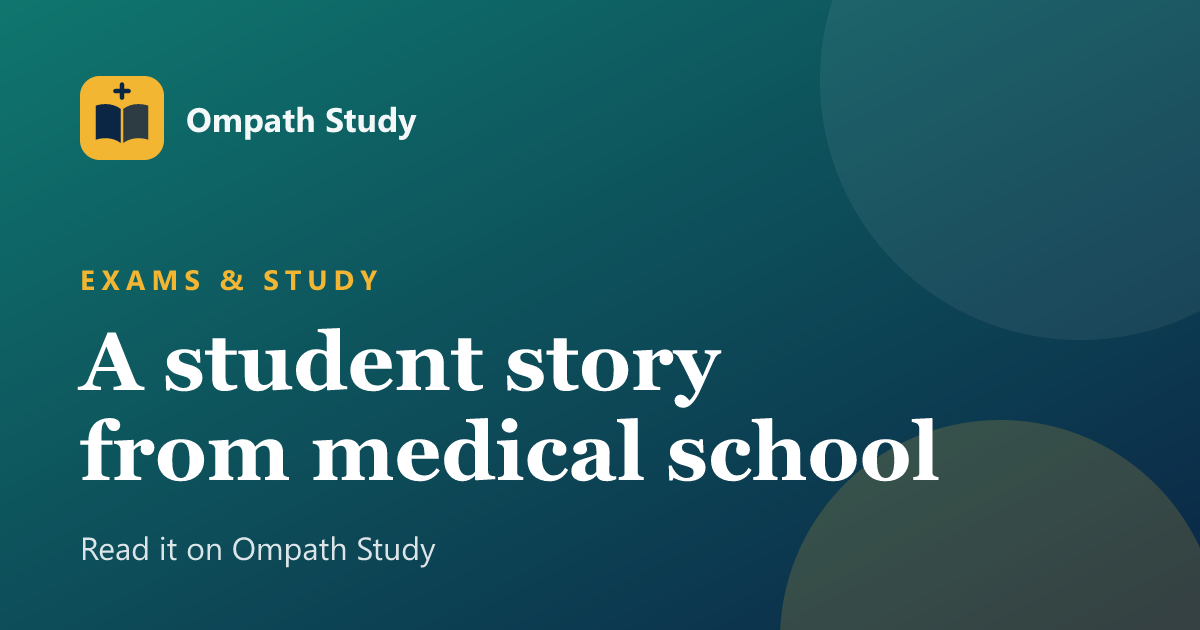
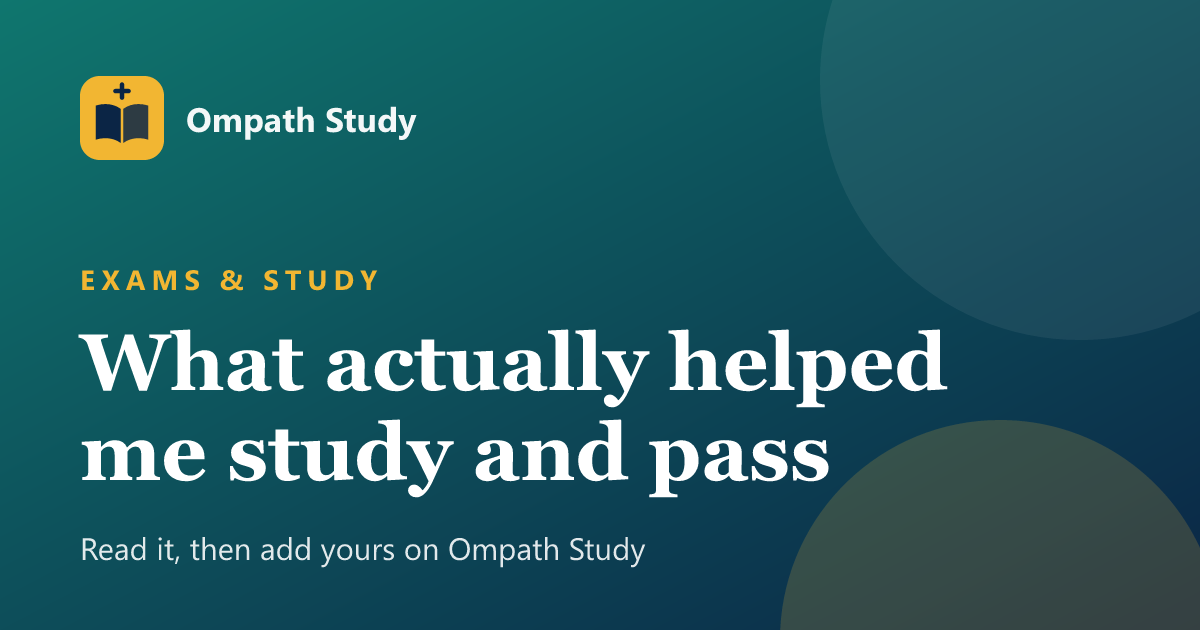
Faster site (lazy search, smarter service worker, update prompt), clearer AI typing box, motivating share text and thumbnails

Changed region(s): [[0.0617, 0.5127, 0.8017, 0.7841], [0.0617, 0.8444, 0.555, 0.9048]]

diff --git a/public/sw.js b/public/sw.js
@@ -1,119 +1,85 @@
-// OmpathStudy Service Worker - v8. Supabase reads are network-first so an
-// empty response captured during a database migration cannot blank the site.
-const CACHE_NAME = "ompath-v8";
-const API_CACHE = "ompath-api-v4";
+// OmpathStudy Service Worker - v9.
+//  - Pages: network-first, so a deploy is picked up at once; the cached copy is only for offline.
+//  - Built files in /assets/: cache-first. Their names contain a fingerprint of their content, so a cached file is never out of date,
+//    and a returning student gets the whole app from their phone instead of downloading it again.
+//  - Database reads: network-first, but if the network is slow (over 3 seconds) and there is a saved copy, the saved copy is shown at once.
+//    An empty answer is never saved, so a database migration cannot blank the site.
+const CACHE_NAME = "ompath-v9";
+const API_CACHE = "ompath-api-v5";
+const SLOW_MS = 3000;
 const STATIC_ASSETS = ["/", "/index.html", "/manifest.json"];
 
-// Install: cache shell
 self.addEventListener("install", (event) => {
-  event.waitUntil(
-    caches.open(CACHE_NAME).then((cache) => cache.addAll(STATIC_ASSETS))
-  );
+  event.waitUntil(caches.open(CACHE_NAME).then((cache) => cache.addAll(STATIC_ASSETS)));
   self.skipWaiting();
 });
 
-// Activate: clean old caches
 self.addEventListener("activate", (event) => {
   event.waitUntil(
-    caches.keys().then((keys) =>
-      Promise.all(
-        keys
-          .filter((k) => k !== CACHE_NAME && k !== API_CACHE)
-          .map((k) => caches.delete(k))
-      )
-    )
+    caches.keys().then((keys) => Promise.all(keys.filter((k) => k !== CACHE_NAME && k !== API_CACHE).map((k) => caches.delete(k))))
   );
   self.clients.claim();
 });
 
-// Fetch handler
+const keep = (cacheName, request, response) => { if (response && response.ok) { const copy = response.clone(); caches.open(cacheName).then((c) => c.put(request, copy)); } return response; };
+
 self.addEventListener("fetch", (event) => {
   const url = new URL(event.request.url);
-
   if (event.request.method !== "GET") return;
   if (url.pathname.startsWith("/~oauth")) return;
 
-  // Supabase REST API: prefer current database state, then fall back offline.
+  // Database reads
   if (url.hostname.includes("supabase") && url.pathname.includes("/rest/")) {
-    event.respondWith(
-      caches.open(API_CACHE).then(async (cache) => {
-        const cached = await cache.match(event.request);
-        try {
-          const response = await fetch(event.request);
-          if (response.ok) await cache.put(event.request, response.clone());
-          return response;
-        } catch {
-          return cached || new Response("[]", { headers: { "Content-Type": "application/json" } });
+    event.respondWith((async () => {
+      const cache = await caches.open(API_CACHE);
+      const cached = await cache.match(event.request);
+      const network = fetch(event.request).then(async (response) => {
+        if (response.ok) {
+          const text = await response.clone().text();
+          if (text && text !== "[]" && text !== "null") await cache.put(event.request, response.clone()); // never keep an empty answer
         }
-      })
-    );
+        return response;
+      });
+      if (!cached) return network.catch(() => new Response("[]", { headers: { "Content-Type": "application/json" } }));
+      const slow = new Promise((resolve) => setTimeout(() => resolve(cached.clone()), SLOW_MS));
+      return Promise.race([network, slow]).catch(() => cached);
+    })());
     return;
   }
+  if (url.hostname.includes("supabase")) return; // auth and functions go straight to the network
 
-  // Skip other supabase calls (auth, functions)
-  if (url.hostname.includes("supabase")) return;
-
-  // Navigation: network-first with offline fallback to cached index.html
+  // Pages
   if (event.request.mode === "navigate") {
     event.respondWith(
       fetch(event.request)
-        .then((response) => {
-          const clone = response.clone();
-          caches.open(CACHE_NAME).then((cache) => cache.put(event.request, clone));
-          return response;
-        })
-        .catch(() =>
-          caches.match(event.request).then((r) => r || caches.match("/"))
-        )
+        .then((response) => keep(CACHE_NAME, event.request, response))
+        .catch(() => caches.match(event.request).then((r) => r || caches.match("/")))
     );
     return;
   }
 
-  // JS/CSS chunks: network-first to avoid serving stale hashed bundles after deploy.
-  // Falls back to cache only when offline.
-  const isHashedBundle = url.pathname.startsWith("/assets/") || /\.(js|css)$/.test(url.pathname);
-  if (isHashedBundle) {
+  // Fingerprinted app files: cache-first
+  if (url.origin === self.location.origin && url.pathname.startsWith("/assets/")) {
     event.respondWith(
-      fetch(event.request)
-        .then((response) => {
-          if (response.ok) {
-            const clone = response.clone();
-            caches.open(CACHE_NAME).then((cache) => cache.put(event.request, clone));
-          }
-          return response;
-        })
-        .catch(() => caches.match(event.request).then((r) => r || new Response("", { status: 503 })))
+      caches.match(event.request).then((cached) => cached || fetch(event.request).then((response) => keep(CACHE_NAME, event.request, response)).catch(() => new Response("", { status: 503 })))
     );
     return;
   }
 
-  // Images / fonts: cache-first (safe to keep stale)
-  if (/\.(png|jpg|jpeg|svg|ico|woff2?|webp|gif)$/.test(url.pathname)) {
+  // Other scripts and styles: network-first
+  if (/\.(js|css)$/.test(url.pathname)) {
+    event.respondWith(fetch(event.request).then((response) => keep(CACHE_NAME, event.request, response)).catch(() => caches.match(event.request).then((r) => r || new Response("", { status: 503 }))));
+    return;
+  }
+
+  // Images and fonts: cache-first
+  if (/\.(png|jpg|jpeg|svg|ico|woff2?|webp|gif|avif)$/.test(url.pathname)) {
     event.respondWith(
-      caches.match(event.request).then((cached) => {
-        if (cached) return cached;
-        return fetch(event.request).then((response) => {
-          if (response.ok) {
-            const clone = response.clone();
-            caches.open(CACHE_NAME).then((cache) => cache.put(event.request, clone));
-          }
-          return response;
-        }).catch(() => new Response("", { status: 503 }));
-      })
+      caches.match(event.request).then((cached) => cached || fetch(event.request).then((response) => keep(CACHE_NAME, event.request, response)).catch(() => new Response("", { status: 503 })))
     );
     return;
   }
 
-  // Everything else: network-first with cache fallback
-  event.respondWith(
-    fetch(event.request)
-      .then((response) => {
-        if (response.ok) {
-          const clone = response.clone();
-          caches.open(CACHE_NAME).then((cache) => cache.put(event.request, clone));
-        }
-        return response;
-      })
-      .catch(() => caches.match(event.request))
-  );
+  // Everything else: network-first
+  event.respondWith(fetch(event.request).then((response) => keep(CACHE_NAME, event.request, response)).catch(() => caches.match(event.request)));
 });

diff --git a/src/components/ai/OmpathAIHost.tsx b/src/components/ai/OmpathAIHost.tsx
@@ -2,7 +2,7 @@ import { useCallback, useEffect, useMemo, useRef, useState } from "react";
 import { useLocation, useNavigate } from "react-router-dom";
 import { ArrowUp, Bookmark, BookOpen, Check, Copy, ExternalLink, History, Loader2, MessageSquarePlus, Search, Square, Mic, RefreshCw, Share2, Zap, ThumbsDown, ThumbsUp, Trash2, X } from "lucide-react";
 import { Sheet, SheetContent, SheetDescription, SheetTitle } from "@/components/ui/sheet";
-import { HitIcon } from "@/components/SearchPalette";
+import { HitIcon } from "@/components/HitIcon";
 import DriveFileViewer, { type DriveFile, type DriveKind } from "@/components/DriveFileViewer";
 import { SubscribeModal } from "@/components/SubscribeModal";
 import NotePreview from "@/components/ai/NotePreview";
@@ -428,8 +428,8 @@ export default function OmpathAIHost() {
                   ))}
                 </div>
               )}
-              <form onSubmit={(e) => { e.preventDefault(); void ask(q); }} className="flex items-end gap-2 rounded-2xl border border-border bg-card p-2 focus-within:ring-2 focus-within:ring-ring">
-                <textarea ref={inputRef} value={q} onChange={(e) => { setQ(e.target.value); e.target.style.height = "auto"; e.target.style.height = `${Math.min(e.target.scrollHeight, 144)}px`; }} onKeyDown={(e) => { if (e.key === "Enter" && !e.shiftKey) { e.preventDefault(); void ask(q); } }} rows={1} placeholder="e.g. I need notes on psychiatry" aria-label="Ask Ompath AI" className="max-h-36 min-h-[44px] flex-1 resize-none bg-transparent px-2 py-2.5 text-base outline-none placeholder:text-muted-foreground" />
+              <form onSubmit={(e) => { e.preventDefault(); void ask(q); }} className="flex items-end gap-1.5 rounded-2xl border border-border bg-card p-1.5 transition-shadow focus-within:border-primary/60 focus-within:shadow-[0_0_0_3px_hsl(var(--primary)/0.18)]">
+                <textarea ref={inputRef} value={q} onChange={(e) => { setQ(e.target.value); e.target.style.height = "auto"; e.target.style.height = `${Math.min(e.target.scrollHeight, 144)}px`; }} onKeyDown={(e) => { if (e.key === "Enter" && !e.shiftKey) { e.preventDefault(); void ask(q); } }} rows={1} placeholder="Ask Ompath AI…" aria-label="Ask Ompath AI" enterKeyHint="send" autoComplete="off" autoCorrect="on" className="block max-h-36 min-h-[44px] min-w-0 flex-1 resize-none overflow-y-auto bg-transparent px-2 py-[10px] text-base leading-6 outline-none placeholder:text-muted-foreground" />
                 {SpeechRec && !busy && <button type="button" onClick={listen} aria-label={listening ? "Listening" : "Speak your question"} className={`flex h-11 w-11 shrink-0 items-center justify-center rounded-xl ${listening ? "animate-pulse bg-destructive/15 text-destructive" : "text-muted-foreground hover:bg-muted"}`}><Mic className="h-5 w-5" /></button>}
                 {busy ? <button type="button" onClick={() => abort.current?.abort()} aria-label="Stop" className="flex h-11 w-11 shrink-0 items-center justify-center rounded-xl bg-muted"><Square className="h-4 w-4" /></button>
                   : <button type="submit" disabled={q.trim().length < 2} aria-label="Ask" className="flex h-11 w-11 shrink-0 items-center justify-center rounded-xl bg-primary text-primary-foreground disabled:opacity-40"><ArrowUp className="h-5 w-5" /></button>}

diff --git a/src/components/SearchPalette.tsx b/src/components/SearchPalette.tsx
@@ -6,9 +6,9 @@ import { useSiteSearch } from "@/hooks/useSiteSearch";
 import { groupSiteHits, type SiteHit } from "@/lib/siteSearch";
 import { logSearch } from "@/lib/search";
 import Highlight from "@/components/Highlight";
+import { HitIcon } from "@/components/HitIcon";
+import { OPEN_SEARCH_EVENT } from "@/lib/searchEvents";
 
-export const OPEN_SEARCH_EVENT = "ompath:open-search";
-export const openSearch = (initial = "") => window.dispatchEvent(new CustomEvent(OPEN_SEARCH_EVENT, { detail: initial }));
 
 const RECENT_KEY = "ompath_recent_searches";
 const readRecent = (): string[] => { try { const v = JSON.parse(localStorage.getItem(RECENT_KEY) ?? "[]"); return Array.isArray(v) ? v.slice(0, 6) : []; } catch { return []; } };
@@ -18,12 +18,6 @@ const SUGGESTED = [
   { label: "Course outlines", href: "/course-outlines", icon: ClipboardList },
   { label: "Year 1 library", href: "/library/year-1", icon: FolderOpen },
 ];
-
-export function HitIcon({ hit, className = "h-4 w-4" }: { hit: SiteHit; className?: string }) {
-  const Icon = hit.group === "Notes" ? BookOpen : hit.group === "Outline topics" ? ClipboardList : hit.group === "Pages" ? Layers : hit.group === "Stories" ? Newspaper : hit.group === "MCQs & flashcards" ? GraduationCap
-    : hit.kind === "ppt" ? Presentation : hit.kind === "video" ? Film : hit.kind === "img" ? ImageIcon : hit.kind === "pdf" || hit.kind === "doc" ? FileText : hit.group === "Units" ? FolderOpen : File;
-  return <Icon className={`${className} text-primary`} aria-hidden="true" />;
-}
 
 /** Ctrl/⌘ + K anywhere: live search over notes, library files, outline topics and pages. */
 export default function SearchPalette() {
@@ -44,6 +38,8 @@ export default function SearchPalette() {
       if ((e.ctrlKey || e.metaKey) && e.key.toLowerCase() === "k") { e.preventDefault(); setRecent(readRecent()); setOpen((o) => !o); }
     };
     const onOpen = (e: Event) => { setRecent(readRecent()); setQ(String((e as CustomEvent).detail ?? "")); setOpen(true); };
+    const w = window as unknown as { __ompathSearchPending?: string };
+    if (w.__ompathSearchPending !== undefined) { setRecent(readRecent()); setQ(w.__ompathSearchPending); setOpen(true); delete w.__ompathSearchPending; }
     window.addEventListener("keydown", onKey);
     window.addEventListener(OPEN_SEARCH_EVENT, onOpen);
     return () => { window.removeEventListener("keydown", onKey); window.removeEventListener(OPEN_SEARCH_EVENT, onOpen); };

diff --git a/src/components/UpdateNotifier.tsx b/src/components/UpdateNotifier.tsx
@@ -1,0 +1,42 @@
+import { useEffect, useState } from "react";
+import { RefreshCw } from "lucide-react";
+
+/** The script file the page is running on, from its own markup ("/assets/index-AbC123.js"). */
+const scriptOf = (html: string) => html.match(/<script[^>]+type="module"[^>]+src="([^"]*\/assets\/index-[^"]+\.js)"/)?.[1] ?? html.match(/src="([^"]*\/assets\/index-[^"]+\.js)"/)?.[1] ?? "";
+
+/**
+ * Students keep Ompath Study open (or installed) for days, and an old copy keeps running old code after a fix goes live.
+ * This quietly checks for a newer version when the student comes back to the tab, and offers a one-tap refresh.
+ * It never reloads on its own, so nothing a student is typing is lost.
+ */
+export default function UpdateNotifier() {
+  const [stale, setStale] = useState(false);
+
+  useEffect(() => {
+    if (import.meta.env.DEV) return;
+    const running = scriptOf(document.documentElement.innerHTML);
+    if (!running) return;
+    let last = 0;
+    const check = async () => {
+      if (document.visibilityState !== "visible" || Date.now() - last < 10 * 60 * 1000) return;
+      last = Date.now();
+      try {
+        const res = await fetch("/index.html", { cache: "no-store" });
+        const latest = scriptOf(await res.text());
+        if (latest && latest !== running) setStale(true);
+      } catch { /* offline: nothing to check */ }
+    };
+    const t = window.setTimeout(check, 30_000);
+    document.addEventListener("visibilitychange", check);
+    return () => { window.clearTimeout(t); document.removeEventListener("visibilitychange", check); };
+  }, []);
+
+  if (!stale) return null;
+  return (
+    <div role="status" className="fixed inset-x-3 bottom-20 z-50 mx-auto flex max-w-sm items-center gap-3 rounded-2xl border border-border bg-foreground px-4 py-3 text-background shadow-xl print:hidden">
+      <p className="min-w-0 flex-1 text-sm font-semibold">A newer version of Ompath Study is ready.</p>
+      <button type="button" onClick={() => window.location.reload()} className="inline-flex shrink-0 items-center gap-1.5 rounded-lg bg-background px-3 py-2 text-xs font-bold text-foreground"><RefreshCw className="h-3.5 w-3.5" /> Refresh</button>
+      <button type="button" onClick={() => setStale(false)} aria-label="Later" className="shrink-0 text-xs font-semibold opacity-70 hover:opacity-100">Later</button>
+    </div>
+  );
+}

diff --git a/src/pages/Stories.tsx b/src/pages/Stories.tsx
@@ -138,10 +138,10 @@ export default function Stories() {
         <div className="pointer-events-none absolute -bottom-16 left-1/3 h-48 w-48 rounded-full bg-[#f2b632]/25 blur-2xl" aria-hidden="true" />
         <p className="relative text-xs font-bold uppercase tracking-[0.2em] text-white/80">Ompath Study</p>
         <h1 className="relative mt-1 font-serif text-4xl font-bold sm:text-5xl">Student Stories</h1>
-        <p className="relative mt-2 max-w-xl text-sm text-white/90 sm:text-base">Experiences, advice and honest reflections from medical school. First year to final year, everyone has something worth sharing.</p>
+        <p className="relative mt-2 max-w-xl text-sm text-white/90 sm:text-base">The late nights, the wards, the wins and the wobbles. Read what medical school is really like, then share your own. Someone out there needs your story, and your name can stay private.</p>
         <div className="relative mt-5 flex flex-wrap items-center gap-3">
           <button type="button" onClick={openWriter} className="inline-flex items-center gap-2 rounded-xl bg-white px-5 py-3 text-sm font-bold text-[#0b2545] shadow transition-transform hover:scale-[1.02] active:scale-95"><PenLine className="h-4 w-4" /> Share your story</button>
-          <button type="button" onClick={() => void shareOut(INVITE_TEXT.split("\n")[0], INVITE_URL, "Share your medical school story")} className="inline-flex items-center gap-2 rounded-xl border border-white/40 bg-white/10 px-4 py-3 text-sm font-bold text-white backdrop-blur transition-colors hover:bg-white/20"><MessageCircle className="h-4 w-4" /> Invite classmates</button>
+          <button type="button" onClick={() => void shareOut(INVITE_TEXT.split("\n")[0], INVITE_URL, "Your story could help a first-year tonight")} className="inline-flex items-center gap-2 rounded-xl border border-white/40 bg-white/10 px-4 py-3 text-sm font-bold text-white backdrop-blur transition-colors hover:bg-white/20"><MessageCircle className="h-4 w-4" /> Invite classmates</button>
           {stories.length > 0 && <span className="rounded-full bg-white/15 px-3 py-1.5 text-xs font-semibold backdrop-blur">{stories.length} stor{stories.length === 1 ? "y" : "ies"} shared</span>}
         </div>
       </section>

diff --git a/src/components/StoryComposer.tsx b/src/components/StoryComposer.tsx
@@ -182,7 +182,7 @@ export default function StoryComposer({ open, onClose, onPublished, editing }: {
             </div>
             <div className="flex w-full max-w-sm flex-col gap-2">
               <Link to={done.path} onClick={onClose} className="inline-flex items-center justify-center gap-2 rounded-xl bg-primary px-5 py-3 text-sm font-bold text-primary-foreground"><ExternalLink className="h-4 w-4" /> View my story</Link>
-              <a href={whatsappLink(`Read my story on Ompath Study: ${done.title}\n${done.url}`)} target="_blank" rel="noopener noreferrer" className="inline-flex items-center justify-center gap-2 rounded-xl bg-[#25D366] px-5 py-3 text-sm font-bold text-[#073b1d]"><MessageCircle className="h-4 w-4" /> Share on WhatsApp</a>
+              <a href={whatsappLink(`I just shared my story on Ompath Study: “${done.title}”. Read it, and add yours 👇\n${done.url}`)} target="_blank" rel="noopener noreferrer" className="inline-flex items-center justify-center gap-2 rounded-xl bg-[#25D366] px-5 py-3 text-sm font-bold text-[#073b1d]"><MessageCircle className="h-4 w-4" /> Share on WhatsApp</a>
               <button type="button" onClick={() => void copy(done.url)} className="inline-flex items-center justify-center gap-2 rounded-xl border border-border px-5 py-3 text-sm font-bold hover:border-primary">{copied ? <Check className="h-4 w-4" /> : <Copy className="h-4 w-4" />} {copied ? "Link copied" : "Copy link"}</button>
             </div>
           </div>

diff --git a/src/components/SearchGate.tsx b/src/components/SearchGate.tsx
@@ -1,0 +1,23 @@
+import { Suspense, lazy, useEffect, useState } from "react";
+import { OPEN_SEARCH_EVENT } from "@/lib/searchEvents";
+
+const Palette = lazy(() => import("@/components/SearchPalette"));
+
+/** Keeps the search window (and all the search code behind it) out of the first download: it loads the first time search is opened. */
+export default function SearchGate() {
+  const [loaded, setLoaded] = useState(false);
+  useEffect(() => {
+    if (loaded) return;
+    let pending: string | null = null;
+    const onOpen = (e: Event) => { pending = String((e as CustomEvent).detail ?? ""); setLoaded(true); };
+    const onKey = (e: KeyboardEvent) => { if ((e.ctrlKey || e.metaKey) && e.key.toLowerCase() === "k") { e.preventDefault(); pending = ""; setLoaded(true); } };
+    window.addEventListener(OPEN_SEARCH_EVENT, onOpen);
+    window.addEventListener("keydown", onKey);
+    return () => {
+      window.removeEventListener(OPEN_SEARCH_EVENT, onOpen);
+      window.removeEventListener("keydown", onKey);
+      if (pending !== null) (window as unknown as { __ompathSearchPending?: string }).__ompathSearchPending = pending;
+    };
+  }, [loaded]);
+  return loaded ? <Suspense fallback={null}><Palette /></Suspense> : null;
+}

diff --git a/src/lib/siteSearch.ts b/src/lib/siteSearch.ts
@@ -4,6 +4,7 @@ import registry from "@/data/libraries.json";
 import { COURSE_OUTLINES } from "@/data/courseOutlines";
 import { supabase } from "@/integrations/supabase/client";
 import { flattenDrive, loadDriveNotes } from "@/lib/driveNotes";
+import { queryTerms } from "@/lib/queryTerms";
 import { buildBlogPath } from "@/lib/store";
 import { globalSearch, type SearchFilters } from "@/lib/search";
 import { loadLibrary, type LibraryNode } from "@/lib/libraryData";
@@ -24,7 +25,7 @@ export interface SiteHit {
 export const GROUP_ORDER: HitGroup[] = ["Notes", "Library files", "Outline topics", "Units", "MCQs & flashcards", "Pages", "Stories"];
 
 /** Words to match and highlight: lower-cased, 2+ characters. */
-export const queryTerms = (q: string) => q.toLowerCase().split(/[^a-z0-9]+/i).filter((t) => t.length >= 2);
+export { queryTerms };
 
 const matchesAll = (haystack: string, terms: string[]) => terms.every((t) => haystack.includes(t));
 const rank = (title: string, q: string, terms: string[]) => {

diff --git a/api/og-meta.ts b/api/og-meta.ts
@@ -41,9 +41,9 @@ const STATIC_PAGE_META: Record<string, { title: string; description: string; lin
     links: ["/", "/blog", "/mcqs", "/flashcards", "/exams", "/year/1", "/year/2", "/year/3", "/year/4", "/year/5", "/year/6"],
   },
   "/stories": {
-    title: "Share your medical school story | Ompath Study",
-    description: "Read and share student stories from medical school. First years to final years can publish in two minutes. Tap to write yours.",
-    image: "https://www.ompathstudy.com/og/stories.png",
+    title: "Your story could help a first-year tonight | Ompath Study",
+    description: "Real experiences from medical students. Add yours in two minutes, with or without your name. Someone will be glad you did.",
+    image: "https://www.ompathstudy.com/og/stories.png?v=2",
     links: ["/", "/blog", "/mcqs", "/flashcards", "/exams"],
   },
 };

diff --git a/src/components/HitIcon.tsx b/src/components/HitIcon.tsx
@@ -1,0 +1,8 @@
+import { BookOpen, ClipboardList, File, FileText, FolderOpen, GraduationCap, Layers, Newspaper, Presentation, Film, Image as ImageIcon } from "lucide-react";
+import type { SiteHit } from "@/lib/siteSearch";
+
+export function HitIcon({ hit, className = "h-4 w-4" }: { hit: SiteHit; className?: string }) {
+  const Icon = hit.group === "Notes" ? BookOpen : hit.group === "Outline topics" ? ClipboardList : hit.group === "Pages" ? Layers : hit.group === "Stories" ? Newspaper : hit.group === "MCQs & flashcards" ? GraduationCap
+    : hit.kind === "ppt" ? Presentation : hit.kind === "video" ? Film : hit.kind === "img" ? ImageIcon : hit.kind === "pdf" || hit.kind === "doc" ? FileText : hit.group === "Units" ? FolderOpen : File;
+  return <Icon className={`${className} text-primary`} aria-hidden="true" />;
+}

diff --git a/src/App.tsx b/src/App.tsx
@@ -1,6 +1,7 @@
 import { Suspense, lazy } from "react";
 import RailLayout from "@/components/RailLayout";
-import SearchPalette from "@/components/SearchPalette";
+import SearchGate from "@/components/SearchGate";
+import UpdateNotifier from "@/components/UpdateNotifier";
 import AIGate from "@/components/ai/AIGate";
 import AIPill from "@/components/ai/AIPill";
 import AnnouncementBar from "@/components/AnnouncementBar";
@@ -234,7 +235,8 @@ const App = () => (
             <PurchaseResume />
             <LearnerProfileGate />
             <AnnouncementBar />
-            <SearchPalette />
+            <SearchGate />
+            <UpdateNotifier />
             <AIGate />
             <AIPill />
             <Navbar />

diff --git a/src/lib/storyShare.ts b/src/lib/storyShare.ts
@@ -10,7 +10,7 @@ export function storyThumb(category: string): string {
 export const isGeneratedThumb = (url?: string | null) => Boolean(url && url.startsWith(`${SITE_URL}/og/stories/`));
 
 export const INVITE_URL = `${SITE_URL}/stories?write=1`;
-export const INVITE_TEXT = `Share your medical school story on Ompath Study. First years to final years can publish, it takes two minutes.\n${INVITE_URL}`;
+export const INVITE_TEXT = `Your medical school story could be the one a first-year needs to read tonight. Share it on Ompath Study: it takes two minutes, and your name can stay private.\n${INVITE_URL}`;
 
 export const whatsappLink = (text: string) => `https://wa.me/?text=${encodeURIComponent(text)}`;
 
